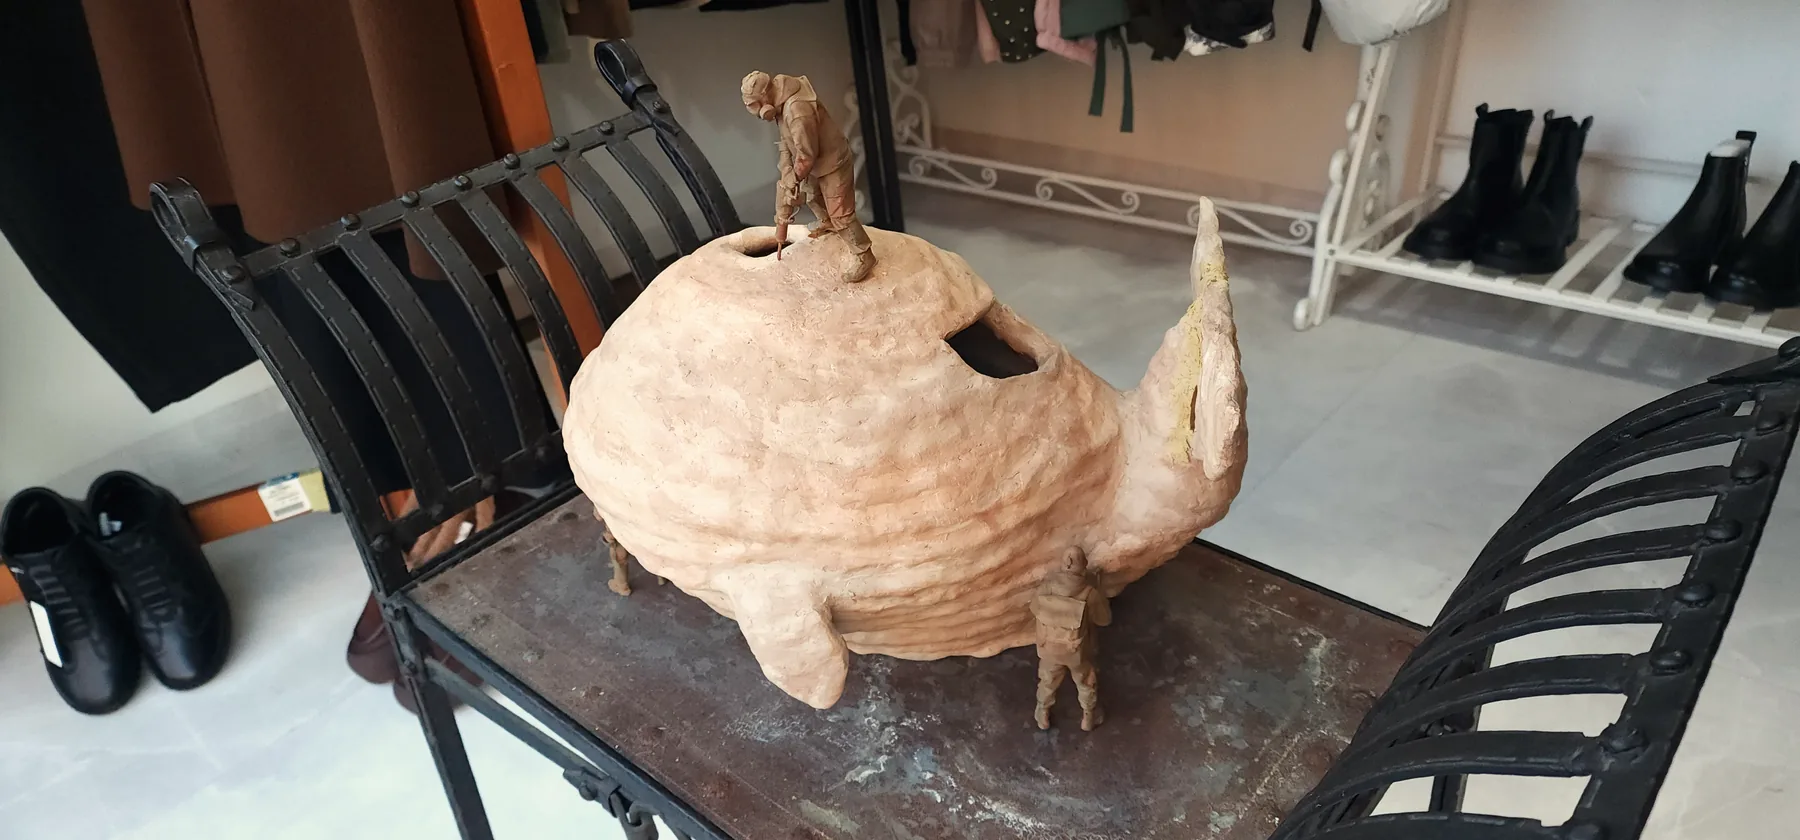
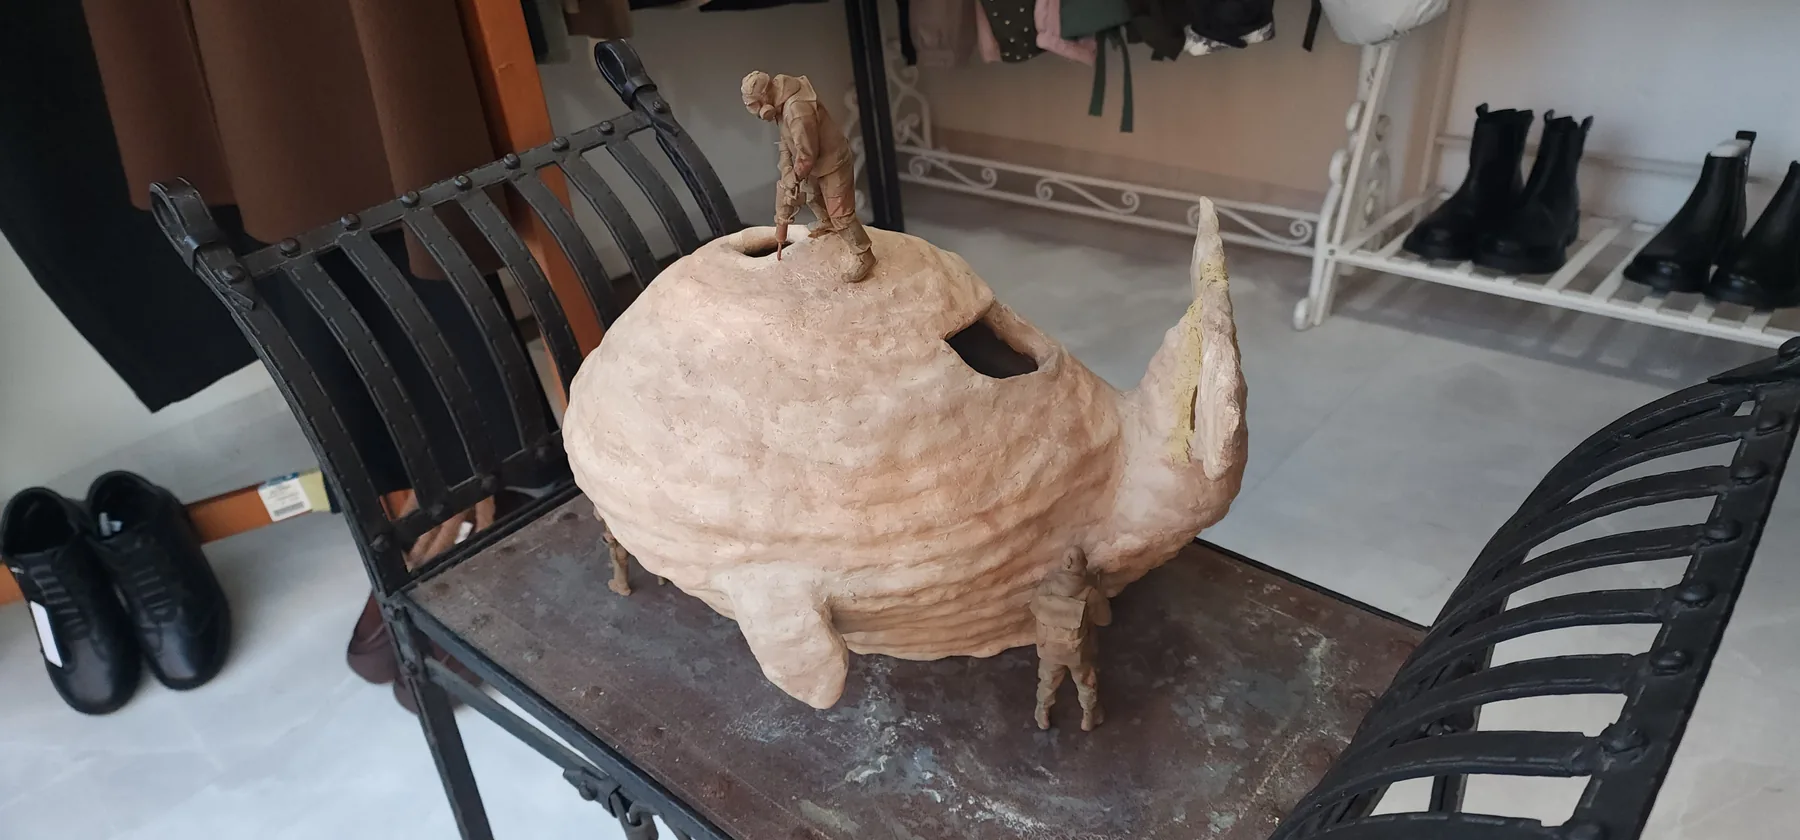
주장석 전시 전경: 가까운 스툴 컷을 맨 앞에(초록 기만 빼고 조금 밝게), 1·2번 순서 바꿈 / 조영범 안쪽 컷은 보정 없이 원본으로

diff --git a/app/_content/artist-pages.js b/app/_content/artist-pages.js
@@ -337,7 +337,7 @@ const details = {
       monument: "/artist-media/cho-youngbeom-monument.webp",
       photos: photos("cho-youngbeom", ["완성한 Co-Ark 곁의 조영범", "작업 테이블의 조영범", "나리움을 다듬는 조영범"]),
       venue: { name: "해피스토리", address: "원주시 현충로 322번길 8", period: "2026.11.21. ~ 12.12.", hours: "일요일 휴무" },
-      // 사진·영상은 레벨·색을 살짝 보정. 쇼윈도 컷(2)만 흰색·회색 기준으로 색을 맞췄고, 벤치 컷은 밝기를 올렸다. 피규어 컷(cho-youngbeom-3)은 작가가 찍은 영상에서 뽑은 장면,
+      // 사진·영상은 레벨·색을 살짝 보정. 쇼윈도 컷(2)만 흰색·회색 기준으로 색을 맞췄고, 벤치 컷은 밝기를 올렸다. 안쪽 컷(inside)은 보정 없이 원본. 피규어 컷(cho-youngbeom-3)은 작가가 찍은 영상에서 뽑은 장면,
       // 영상은 H.264 960px·소리 없이 압축(원본 KakaoTalk_20261122_185218636.mp4).
       installPhotos: [
         install("cho-youngbeom-2", "해피스토리 쇼윈도 너머 벤치 위의 〈자유를 짓다〉"),
@@ -365,10 +365,11 @@ const details = {
       monument: "/artist-media/joo-jangseok-monument.webp",
       photos: photos("joo-jangseok", ["〈발성〉을 빚는 주장석", "〈발성〉의 입을 다듬는 주장석", "야외 현장에서 대형 울림통을 쌓는 주장석"]),
       venue: { name: "예무아트컴퍼니 연습실", address: "원주시 현석길 11-3, 지하", period: "2026.11.21. ~ 12.13.", hours: "" },
-      // 3은 세로 사진이라 가운데 두고 양옆은 같은 사진을 흐리게 깔았다. 조영범·주장석 사진은 레벨·색을 살짝 보정했다.
+      // 3은 세로 사진이라 가운데 두고 양옆은 같은 사진을 흐리게 깔았다. 레벨·색을 살짝 보정(front는 초록 기만 빼고 조금 밝게).
       installPhotos: [
-        install("joo-jangseok-1", "예무아트컴퍼니 연습실 한쪽, 〈발성〉 곁에 앉은 주장석"),
+        install("joo-jangseok-front", "가까이에서 본 나무 스툴 위의 〈발성〉과 작품 캡션"),
         install("joo-jangseok-2", "나무 스툴 위에 놓인 〈발성〉과 작품 안내판"),
+        install("joo-jangseok-1", "예무아트컴퍼니 연습실 한쪽, 〈발성〉 곁에 앉은 주장석"),
         install("joo-jangseok-3", "예무아트컴퍼니 공연 포스터 아래 놓인 〈발성〉"),
       ],
       // 무대의 목소리 → 타악기가 이끄는 관현악 변주
